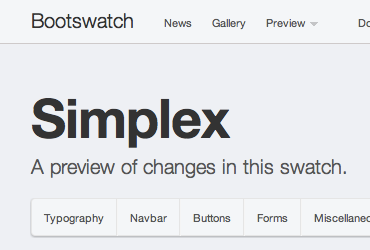
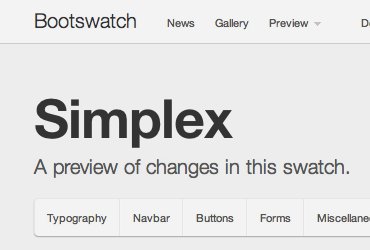
simplex: changed grays of navbar and body to be more neutral / warmer

diff --git a/simplex/bootstrap.min.css b/simplex/bootstrap.min.css
@@ -19,7 +19,7 @@ textarea{overflow:auto;vertical-align:top;}
 .clearfix:after{clear:both;}
 .hide-text{overflow:hidden;text-indent:100%;white-space:nowrap;}
 .input-block-level{display:block;width:100%;min-height:28px;-webkit-box-sizing:border-box;-moz-box-sizing:border-box;-ms-box-sizing:border-box;box-sizing:border-box;}
-body{margin:0;font-family:"Helvetica Neue",Helvetica,Arial,sans-serif;font-size:13px;line-height:18px;color:#555555;background-color:#eef0f4;}
+body{margin:0;font-family:"Helvetica Neue",Helvetica,Arial,sans-serif;font-size:13px;line-height:18px;color:#555555;background-color:#ededed;}
 a{color:#366ddc;text-decoration:none;}
 a:hover{color:#1d4ba8;text-decoration:underline;}
 .row{margin-left:-20px;*zoom:1;}.row:before,.row:after{display:table;content:"";}
@@ -512,10 +512,10 @@ button.btn.btn-mini,input[type="submit"].btn.btn-mini{*padding-top:1px;*padding-
 .tabs-right .nav-tabs>li>a:hover{border-color:#eeeeee #eeeeee #eeeeee #dddddd;}
 .tabs-right .nav-tabs .active>a,.tabs-right .nav-tabs .active>a:hover{border-color:#ddd #ddd #ddd transparent;*border-left-color:#ffffff;}
 .navbar{*position:relative;*z-index:2;overflow:visible;margin-bottom:18px;}
-.navbar-inner{padding-left:20px;padding-right:20px;background-color:#f4f6f8;background-image:-moz-linear-gradient(top, #f4f6f8, #f4f6f8);background-image:-ms-linear-gradient(top, #f4f6f8, #f4f6f8);background-image:-webkit-gradient(linear, 0 0, 0 100%, from(#f4f6f8), to(#f4f6f8));background-image:-webkit-linear-gradient(top, #f4f6f8, #f4f6f8);background-image:-o-linear-gradient(top, #f4f6f8, #f4f6f8);background-image:linear-gradient(top, #f4f6f8, #f4f6f8);background-repeat:repeat-x;filter:progid:DXImageTransform.Microsoft.gradient(startColorstr='#f4f6f8', endColorstr='#f4f6f8', GradientType=0);-webkit-border-radius:4px;-moz-border-radius:4px;border-radius:4px;-webkit-box-shadow:0 1px 3px rgba(0, 0, 0, 0.25),inset 0 -1px 0 rgba(0, 0, 0, 0.1);-moz-box-shadow:0 1px 3px rgba(0, 0, 0, 0.25),inset 0 -1px 0 rgba(0, 0, 0, 0.1);box-shadow:0 1px 3px rgba(0, 0, 0, 0.25),inset 0 -1px 0 rgba(0, 0, 0, 0.1);}
+.navbar-inner{padding-left:20px;padding-right:20px;background-color:#f3f3f3;background-image:-moz-linear-gradient(top, #f3f3f3, #f3f3f3);background-image:-ms-linear-gradient(top, #f3f3f3, #f3f3f3);background-image:-webkit-gradient(linear, 0 0, 0 100%, from(#f3f3f3), to(#f3f3f3));background-image:-webkit-linear-gradient(top, #f3f3f3, #f3f3f3);background-image:-o-linear-gradient(top, #f3f3f3, #f3f3f3);background-image:linear-gradient(top, #f3f3f3, #f3f3f3);background-repeat:repeat-x;filter:progid:DXImageTransform.Microsoft.gradient(startColorstr='#f3f3f3', endColorstr='#f3f3f3', GradientType=0);-webkit-border-radius:4px;-moz-border-radius:4px;border-radius:4px;-webkit-box-shadow:0 1px 3px rgba(0, 0, 0, 0.25),inset 0 -1px 0 rgba(0, 0, 0, 0.1);-moz-box-shadow:0 1px 3px rgba(0, 0, 0, 0.25),inset 0 -1px 0 rgba(0, 0, 0, 0.1);box-shadow:0 1px 3px rgba(0, 0, 0, 0.25),inset 0 -1px 0 rgba(0, 0, 0, 0.1);}
 .navbar .container{width:auto;}
-.btn-navbar{display:none;float:right;padding:7px 10px;margin-left:5px;margin-right:5px;background-color:#f4f6f8;background-image:-moz-linear-gradient(top, #f4f6f8, #f4f6f8);background-image:-ms-linear-gradient(top, #f4f6f8, #f4f6f8);background-image:-webkit-gradient(linear, 0 0, 0 100%, from(#f4f6f8), to(#f4f6f8));background-image:-webkit-linear-gradient(top, #f4f6f8, #f4f6f8);background-image:-o-linear-gradient(top, #f4f6f8, #f4f6f8);background-image:linear-gradient(top, #f4f6f8, #f4f6f8);background-repeat:repeat-x;filter:progid:DXImageTransform.Microsoft.gradient(startColorstr='#f4f6f8', endColorstr='#f4f6f8', GradientType=0);border-color:#f4f6f8 #f4f6f8 #c5d0da;border-color:rgba(0, 0, 0, 0.1) rgba(0, 0, 0, 0.1) rgba(0, 0, 0, 0.25);filter:progid:dximagetransform.microsoft.gradient(enabled=false);-webkit-box-shadow:inset 0 1px 0 rgba(255, 255, 255, 0.1),0 1px 0 rgba(255, 255, 255, 0.075);-moz-box-shadow:inset 0 1px 0 rgba(255, 255, 255, 0.1),0 1px 0 rgba(255, 255, 255, 0.075);box-shadow:inset 0 1px 0 rgba(255, 255, 255, 0.1),0 1px 0 rgba(255, 255, 255, 0.075);}.btn-navbar:hover,.btn-navbar:active,.btn-navbar.active,.btn-navbar.disabled,.btn-navbar[disabled]{background-color:#f4f6f8;}
-.btn-navbar:active,.btn-navbar.active{background-color:#d5dde4 \9;}
+.btn-navbar{display:none;float:right;padding:7px 10px;margin-left:5px;margin-right:5px;background-color:#f3f3f3;background-image:-moz-linear-gradient(top, #f3f3f3, #f3f3f3);background-image:-ms-linear-gradient(top, #f3f3f3, #f3f3f3);background-image:-webkit-gradient(linear, 0 0, 0 100%, from(#f3f3f3), to(#f3f3f3));background-image:-webkit-linear-gradient(top, #f3f3f3, #f3f3f3);background-image:-o-linear-gradient(top, #f3f3f3, #f3f3f3);background-image:linear-gradient(top, #f3f3f3, #f3f3f3);background-repeat:repeat-x;filter:progid:DXImageTransform.Microsoft.gradient(startColorstr='#f3f3f3', endColorstr='#f3f3f3', GradientType=0);border-color:#f3f3f3 #f3f3f3 #cdcdcd;border-color:rgba(0, 0, 0, 0.1) rgba(0, 0, 0, 0.1) rgba(0, 0, 0, 0.25);filter:progid:dximagetransform.microsoft.gradient(enabled=false);-webkit-box-shadow:inset 0 1px 0 rgba(255, 255, 255, 0.1),0 1px 0 rgba(255, 255, 255, 0.075);-moz-box-shadow:inset 0 1px 0 rgba(255, 255, 255, 0.1),0 1px 0 rgba(255, 255, 255, 0.075);box-shadow:inset 0 1px 0 rgba(255, 255, 255, 0.1),0 1px 0 rgba(255, 255, 255, 0.075);}.btn-navbar:hover,.btn-navbar:active,.btn-navbar.active,.btn-navbar.disabled,.btn-navbar[disabled]{background-color:#f3f3f3;}
+.btn-navbar:active,.btn-navbar.active{background-color:#dadada \9;}
 .btn-navbar .icon-bar{display:block;width:18px;height:2px;background-color:#f5f5f5;-webkit-border-radius:1px;-moz-border-radius:1px;border-radius:1px;-webkit-box-shadow:0 1px 0 rgba(0, 0, 0, 0.25);-moz-box-shadow:0 1px 0 rgba(0, 0, 0, 0.25);box-shadow:0 1px 0 rgba(0, 0, 0, 0.25);}
 .btn-navbar .icon-bar+.icon-bar{margin-top:3px;}
 .nav-collapse.collapse{height:auto;}
@@ -543,8 +543,8 @@ button.btn.btn-mini,input[type="submit"].btn.btn-mini{*padding-top:1px;*padding-
 .navbar .nav>li{display:block;float:left;}
 .navbar .nav>li>a{float:none;padding:10px 10px 11px;line-height:19px;color:#555555;text-decoration:none;text-shadow:0 -1px 0 rgba(0, 0, 0, 0.25);}
 .navbar .nav>li>a:hover{background-color:transparent;color:#333333;text-decoration:none;}
-.navbar .nav .active>a,.navbar .nav .active>a:hover{color:#333333;text-decoration:none;background-color:#f4f6f8;}
-.navbar .divider-vertical{height:40px;width:1px;margin:0 9px;overflow:hidden;background-color:#f4f6f8;border-right:1px solid #f4f6f8;}
+.navbar .nav .active>a,.navbar .nav .active>a:hover{color:#333333;text-decoration:none;background-color:#f3f3f3;}
+.navbar .divider-vertical{height:40px;width:1px;margin:0 9px;overflow:hidden;background-color:#f3f3f3;border-right:1px solid #f3f3f3;}
 .navbar .nav.pull-right{margin-left:10px;margin-right:0;}
 .navbar .dropdown-menu{margin-top:1px;-webkit-border-radius:4px;-moz-border-radius:4px;border-radius:4px;}.navbar .dropdown-menu:before{content:'';display:inline-block;border-left:7px solid transparent;border-right:7px solid transparent;border-bottom:7px solid #ccc;border-bottom-color:rgba(0, 0, 0, 0.2);position:absolute;top:-7px;left:9px;}
 .navbar .dropdown-menu:after{content:'';display:inline-block;border-left:6px solid transparent;border-right:6px solid transparent;border-bottom:6px solid #ffffff;position:absolute;top:-6px;left:10px;}
@@ -695,7 +695,7 @@ h6,.hero-unit h1{color:#333333;}
 .navbar .nav .active>a,.navbar .nav .active>a:hover{background-color:transparent;}
 .navbar .nav .dropdown-toggle .caret,.navbar .nav .open.dropdown .caret{border-top-color:#555555;}
 .dropdown.open .dropdown-toggle{color:#333333;}
-div.subnav{background-image:none;background-color:#f4f6f8;border-bottom:1px solid transparent;-webkit-box-shadow:0 1px 1px rgba(0, 0, 0, 0.3);-moz-box-shadow:0 1px 1px rgba(0, 0, 0, 0.3);box-shadow:0 1px 1px rgba(0, 0, 0, 0.3);}
+div.subnav{background-image:none;background-color:#f3f3f3;border-bottom:1px solid transparent;-webkit-box-shadow:0 1px 1px rgba(0, 0, 0, 0.3);-moz-box-shadow:0 1px 1px rgba(0, 0, 0, 0.3);box-shadow:0 1px 1px rgba(0, 0, 0, 0.3);}
 div.subnav.subnav-fixed{-webkit-box-shadow:inset 0 5px #ffffff , 0 1px 1px rgba(0, 0, 0, 0.3);-moz-box-shadow:inset 0 5px #ffffff , 0 1px 1px rgba(0, 0, 0, 0.3);box-shadow:inset 0 5px #ffffff , 0 1px 1px rgba(0, 0, 0, 0.3);}
 div.subnav .nav>li>a{padding-top:12px;color:#555555;font-weight:normal;font-size:11px;}div.subnav .nav>li>a:hover{text-decoration:underline;}
 .dropdown-menu{-webkit-border-radius:0;-moz-border-radius:0;border-radius:0;font-size:11px;}
@@ -703,13 +703,13 @@ div.subnav .nav>li>a{padding-top:12px;color:#555555;font-weight:normal;font-size
 .navbar .nav-collapse.in .nav li>a{color:#333333;font-weight:normal;}
 .navbar .nav-collapse.in .nav li>a:hover{background-color:transparent;color:#000000;text-decoration:underline;}
 @media (max-width:979px){form.navbar-form,form.navbar-search{border-top:1px solid #ccc;border-bottom:1px solid #ccc;}}.nav>li>a{font-size:11px;border-width:1px;}
-.nav-tabs>li>a,.nav-tabs>li>a:hover,.tabbable>.nav-tabs>li>a,.tabbable>.nav-tabs>li>a:hover{background-color:#e5e8ee;border:1px solid #ccc;}
+.nav-tabs>li>a,.nav-tabs>li>a:hover,.tabbable>.nav-tabs>li>a,.tabbable>.nav-tabs>li>a:hover{background-color:#e5e5e5;border:1px solid #ccc;}
 .tabbable>.nav-tabs>li.active>a{border-bottom:1px solid transparent;}
 .tabbable.tabs-below>.nav-tabs>li.active>a,.tabbable.tabs-left>.nav-tabs>li.active>a,.tabbable.tabs-right>.nav-tabs>li.active>a{border-bottom:1px solid #ccc;}
 .nav-pills>li>a:hover{background-color:transparent;}
-.nav-tabs>li.active>a,.nav-tabs>li.active>a:hover{background-color:#eef0f4;}
+.nav-tabs>li.active>a,.nav-tabs>li.active>a:hover{background-color:#ededed;}
 input,textarea,select,.uneditable-input{-webkit-border-radius:0;-moz-border-radius:0;border-radius:0;}
-.navbar-search .search-query{border:1px solid #CCC;-webkit-border-radius:0;-moz-border-radius:0;border-radius:0;background-color:#eef0f4;color:#555555;}
+.navbar-search .search-query{border:1px solid #CCC;-webkit-border-radius:0;-moz-border-radius:0;border-radius:0;background-color:#ededed;color:#555555;}
 .help-inline,.help-block{font-size:11px;}
 .input-prepend input,.input-append input,.input-prepend select,.input-append select,.input-prepend .uneditable-input,.input-append .uneditable-input{-webkit-border-radius:0;-moz-border-radius:0;border-radius:0;}
 .input-prepend .add-on,.input-append .add-on,.input-prepend .btn,.input-append .btn{-webkit-border-radius:0;-moz-border-radius:0;border-radius:0;}
@@ -729,8 +729,8 @@ input,textarea,select,.uneditable-input{-webkit-border-radius:0;-moz-border-radi
 .btn-inverse:active,.btn-inverse.active{background-color:#79377c \9;}
 .modal,.modal-header,.modal-footer{-webkit-border-radius:0;-moz-border-radius:0;border-radius:0;}
 .modal-header{border-bottom:none;}
-.modal-header,.modal-body{background-color:#f4f6f8;}
-.modal-footer{background-color:#eef0f4;}
+.modal-header,.modal-body{background-color:#f3f3f3;}
+.modal-footer{background-color:#ededed;}
 i[class^="icon-"]{opacity:0.6;vertical-align:-2px;}
 .alert,.alert p,.alert-heading{font-size:11px;}
 .progress{background-color:#e3e3e3;background-image:-moz-linear-gradient(top, #e0e0e0, #e8e8e8);background-image:-ms-linear-gradient(top, #e0e0e0, #e8e8e8);background-image:-webkit-gradient(linear, 0 0, 0 100%, from(#e0e0e0), to(#e8e8e8));background-image:-webkit-linear-gradient(top, #e0e0e0, #e8e8e8);background-image:-o-linear-gradient(top, #e0e0e0, #e8e8e8);background-image:linear-gradient(top, #e0e0e0, #e8e8e8);background-repeat:repeat-x;filter:progid:DXImageTransform.Microsoft.gradient(startColorstr='#e0e0e0', endColorstr='#e8e8e8', GradientType=0);}

diff --git a/simplex/bootstrap.css b/simplex/bootstrap.css
@@ -136,7 +136,7 @@ body {
   font-size: 13px;
   line-height: 18px;
   color: #555555;
-  background-color: #eef0f4;
+  background-color: #ededed;
 }
 a {
   color: #366ddc;
@@ -2782,15 +2782,15 @@ input[type="submit"].btn.btn-mini {
 .navbar-inner {
   padding-left: 20px;
   padding-right: 20px;
-  background-color: #f4f6f8;
-  background-image: -moz-linear-gradient(top, #f4f6f8, #f4f6f8);
-  background-image: -ms-linear-gradient(top, #f4f6f8, #f4f6f8);
-  background-image: -webkit-gradient(linear, 0 0, 0 100%, from(#f4f6f8), to(#f4f6f8));
-  background-image: -webkit-linear-gradient(top, #f4f6f8, #f4f6f8);
-  background-image: -o-linear-gradient(top, #f4f6f8, #f4f6f8);
-  background-image: linear-gradient(top, #f4f6f8, #f4f6f8);
+  background-color: #f3f3f3;
+  background-image: -moz-linear-gradient(top, #f3f3f3, #f3f3f3);
+  background-image: -ms-linear-gradient(top, #f3f3f3, #f3f3f3);
+  background-image: -webkit-gradient(linear, 0 0, 0 100%, from(#f3f3f3), to(#f3f3f3));
+  background-image: -webkit-linear-gradient(top, #f3f3f3, #f3f3f3);
+  background-image: -o-linear-gradient(top, #f3f3f3, #f3f3f3);
+  background-image: linear-gradient(top, #f3f3f3, #f3f3f3);
   background-repeat: repeat-x;
-  filter: progid:DXImageTransform.Microsoft.gradient(startColorstr='#f4f6f8', endColorstr='#f4f6f8', GradientType=0);
+  filter: progid:DXImageTransform.Microsoft.gradient(startColorstr='#f3f3f3', endColorstr='#f3f3f3', GradientType=0);
   -webkit-border-radius: 4px;
   -moz-border-radius: 4px;
   border-radius: 4px;
@@ -2807,16 +2807,16 @@ input[type="submit"].btn.btn-mini {
   padding: 7px 10px;
   margin-left: 5px;
   margin-right: 5px;
-  background-color: #f4f6f8;
-  background-image: -moz-linear-gradient(top, #f4f6f8, #f4f6f8);
-  background-image: -ms-linear-gradient(top, #f4f6f8, #f4f6f8);
-  background-image: -webkit-gradient(linear, 0 0, 0 100%, from(#f4f6f8), to(#f4f6f8));
-  background-image: -webkit-linear-gradient(top, #f4f6f8, #f4f6f8);
-  background-image: -o-linear-gradient(top, #f4f6f8, #f4f6f8);
-  background-image: linear-gradient(top, #f4f6f8, #f4f6f8);
+  background-color: #f3f3f3;
+  background-image: -moz-linear-gradient(top, #f3f3f3, #f3f3f3);
+  background-image: -ms-linear-gradient(top, #f3f3f3, #f3f3f3);
+  background-image: -webkit-gradient(linear, 0 0, 0 100%, from(#f3f3f3), to(#f3f3f3));
+  background-image: -webkit-linear-gradient(top, #f3f3f3, #f3f3f3);
+  background-image: -o-linear-gradient(top, #f3f3f3, #f3f3f3);
+  background-image: linear-gradient(top, #f3f3f3, #f3f3f3);
   background-repeat: repeat-x;
-  filter: progid:DXImageTransform.Microsoft.gradient(startColorstr='#f4f6f8', endColorstr='#f4f6f8', GradientType=0);
-  border-color: #f4f6f8 #f4f6f8 #c5d0da;
+  filter: progid:DXImageTransform.Microsoft.gradient(startColorstr='#f3f3f3', endColorstr='#f3f3f3', GradientType=0);
+  border-color: #f3f3f3 #f3f3f3 #cdcdcd;
   border-color: rgba(0, 0, 0, 0.1) rgba(0, 0, 0, 0.1) rgba(0, 0, 0, 0.25);
   filter: progid:dximagetransform.microsoft.gradient(enabled=false);
   -webkit-box-shadow: inset 0 1px 0 rgba(255, 255, 255, 0.1), 0 1px 0 rgba(255, 255, 255, 0.075);
@@ -2828,11 +2828,11 @@ input[type="submit"].btn.btn-mini {
 .btn-navbar.active,
 .btn-navbar.disabled,
 .btn-navbar[disabled] {
-  background-color: #f4f6f8;
+  background-color: #f3f3f3;
 }
 .btn-navbar:active,
 .btn-navbar.active {
-  background-color: #d5dde4 \9;
+  background-color: #dadada \9;
 }
 .btn-navbar .icon-bar {
   display: block;
@@ -3015,15 +3015,15 @@ input[type="submit"].btn.btn-mini {
 .navbar .nav .active > a:hover {
   color: #333333;
   text-decoration: none;
-  background-color: #f4f6f8;
+  background-color: #f3f3f3;
 }
 .navbar .divider-vertical {
   height: 40px;
   width: 1px;
   margin: 0 9px;
   overflow: hidden;
-  background-color: #f4f6f8;
-  border-right: 1px solid #f4f6f8;
+  background-color: #f3f3f3;
+  border-right: 1px solid #f3f3f3;
 }
 .navbar .nav.pull-right {
   margin-left: 10px;
@@ -4025,7 +4025,7 @@ h6,
 }
 div.subnav {
   background-image: none;
-  background-color: #f4f6f8;
+  background-color: #f3f3f3;
   border-bottom: 1px solid transparent;
   -webkit-box-shadow: 0 1px 1px rgba(0, 0, 0, 0.3);
   -moz-box-shadow: 0 1px 1px rgba(0, 0, 0, 0.3);
@@ -4079,7 +4079,7 @@ div.subnav .nav > li > a:hover {
 .nav-tabs > li > a:hover,
 .tabbable > .nav-tabs > li > a,
 .tabbable > .nav-tabs > li > a:hover {
-  background-color: #e5e8ee;
+  background-color: #e5e5e5;
   border: 1px solid #ccc;
 }
 .tabbable > .nav-tabs > li.active > a {
@@ -4095,7 +4095,7 @@ div.subnav .nav > li > a:hover {
 }
 .nav-tabs > li.active > a,
 .nav-tabs > li.active > a:hover {
-  background-color: #eef0f4;
+  background-color: #ededed;
 }
 input,
 textarea,
@@ -4110,7 +4110,7 @@ select,
   -webkit-border-radius: 0;
   -moz-border-radius: 0;
   border-radius: 0;
-  background-color: #eef0f4;
+  background-color: #ededed;
   color: #555555;
 }
 .help-inline,
@@ -4315,10 +4315,10 @@ select,
 }
 .modal-header,
 .modal-body {
-  background-color: #f4f6f8;
+  background-color: #f3f3f3;
 }
 .modal-footer {
-  background-color: #eef0f4;
+  background-color: #ededed;
 }
 i[class^="icon-"] {
   opacity: 0.6;

diff --git a/simplex/variables.less b/simplex/variables.less
@@ -35,7 +35,7 @@
 
 // Scaffolding
 // -------------------------
-@bodyBackground:        #EEF0F4;
+@bodyBackground:        #EDEDED;
 @textColor:             @gray;
 
 
@@ -142,7 +142,7 @@
 // Navbar
 // -------------------------
 @navbarHeight:                    40px;
-@navbarBackground:                #F4F6F8;
+@navbarBackground:                #F3F3F3;
 @navbarBackgroundHighlight:       @navbarBackground;
 
 @navbarText:                      @gray;
